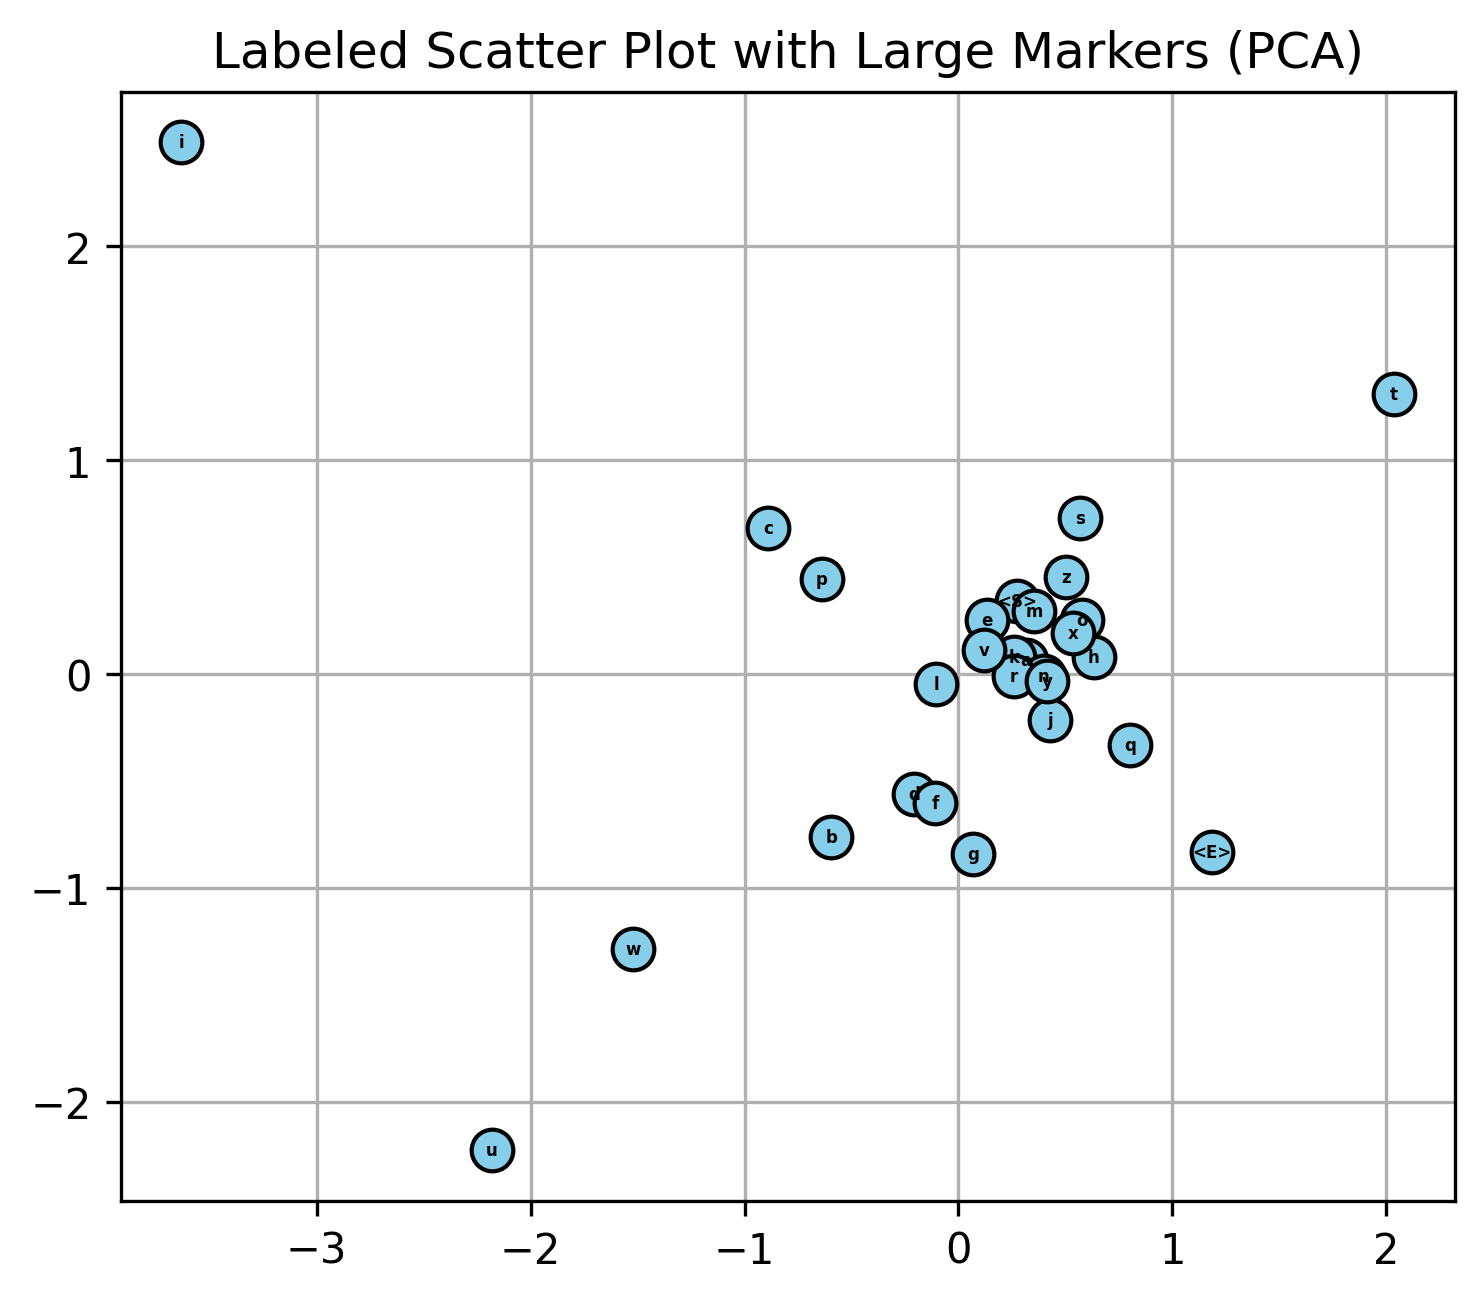
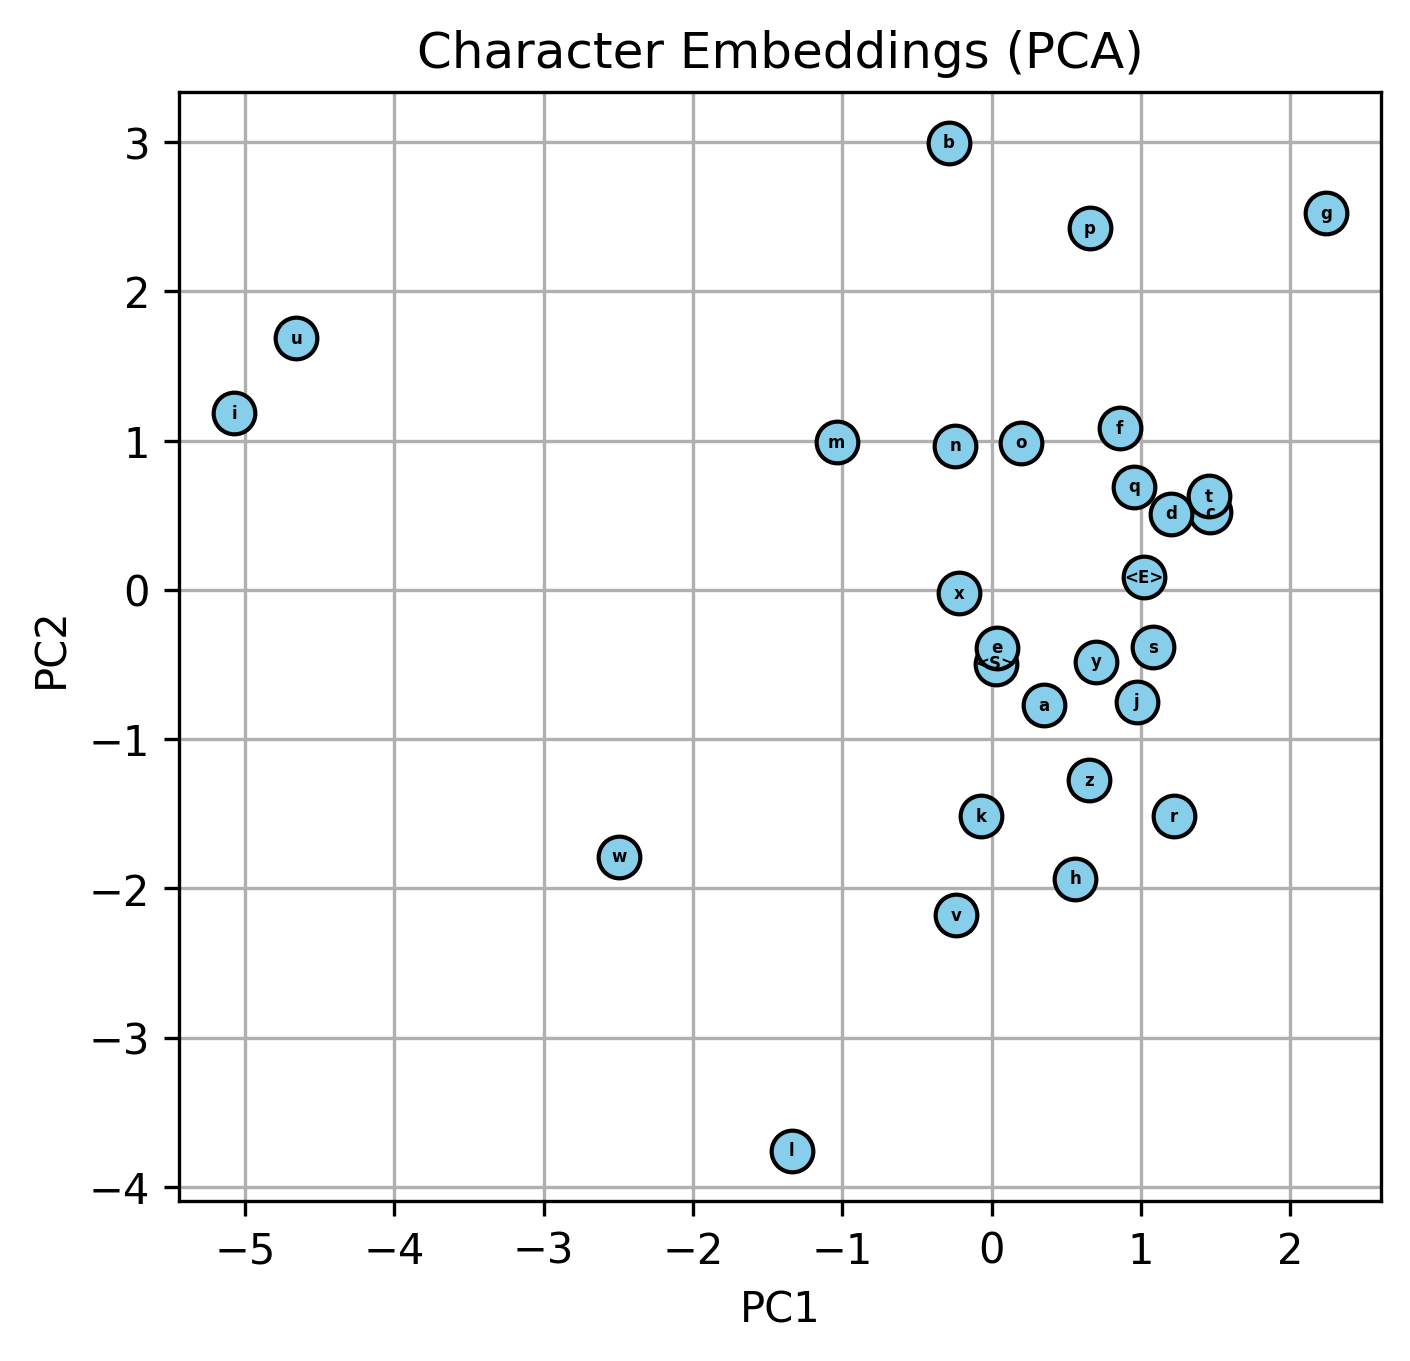
figures

diff --git a/3_makemore_v2/main.py b/3_makemore_v2/main.py
@@ -338,9 +338,9 @@ class NeuralModel:
             o1_activated = torch.tanh(o1)
 
             # Makes certain operations more efficient
-            # with torch.no_grad():
-            #     self.pre_activations.extend(o1.tolist())
-            #     self.activations.extend(o1_activated.tolist())
+            with torch.no_grad():
+                self.pre_activations.append(o1.detach().cpu())
+                self.activations.append(o1_activated.detach().cpu())
             
             logits =  (o1_activated @ self.W2) + self.b2
 
@@ -615,7 +615,9 @@ class NeuralModel:
             plt.text(xi, yi, label, ha='center', va='center', fontsize=4, fontweight='bold', zorder=3)
 
         # Styling
-        plt.title(f"Labeled Scatter Plot with Large Markers {'(PCA)' if did_pca else ''}")
+        plt.title(f"Character Embeddings {'(PCA)' if did_pca else ''}")
+        plt.xlabel("PC1")
+        plt.ylabel("PC2")
         plt.grid(True)
         plt.gca().set_aspect('equal', adjustable='box')
         plt.savefig("/app/3_makemore_v2/figures/embeddings.png", dpi=300, bbox_inches="tight")
@@ -630,75 +632,79 @@ class NeuralModel:
 model1 = NeuralModel()
 model2 = NeuralModel()
 # model.explore()
-model1.train(
-    context_size=3, 
-    embedding_size=10, 
-    hidden_size=500, 
-    epochs=20000,
-    regularization_strength=0.00001,
-    learning_rate=0.5,
-    batch_size=100,
-    pickle=False
-)
-model1.plot_embeddings_gif()
-# model.load()
-# model.eval("test")
-# model.predict(n=100)
-# model.plot_embeddings()
-epochs = 1
 # model1.train(
 #     context_size=3, 
 #     embedding_size=10, 
-#     hidden_size=300, 
-#     epochs=epochs,
+#     hidden_size=500, 
+#     epochs=20000,
 #     regularization_strength=0.00001,
 #     learning_rate=0.5,
-#     batch_size=500,
+#     batch_size=100,
 #     pickle=False
 # )
-# model2.train(
-#     context_size=3, 
-#     embedding_size=10, 
-#     hidden_size=300, 
-#     epochs=epochs,
-#     regularization_strength=0.00001,
-#     learning_rate=0.5,
-#     batch_size=500,
-#     pickle=False,
-#     weight_adjustments=[0.01, 0, 0.01, 0]
-# )
-# print(model1.pre_activations)
-# pa_tensor = torch.tensor(model1.pre_activations).view(1, -1).tolist()
-# a_tensor = torch.tensor(model1.activations).view(1, -1)
-# tail_perc = (a_tensor.abs() > 0.99).sum()/a_tensor.count_nonzero() * 100
-# a_tensor_list = torch.tensor(model1.activations).view(1, -1).tolist()
+# model1.plot_embeddings_gif()
+# model.load()
+# model.eval("test")
+# model.predict(n=100)
+# model1.plot_embeddings()
+epochs = 1
+model1.train(
+    context_size=3, 
+    embedding_size=10, 
+    hidden_size=300, 
+    epochs=epochs,
+    regularization_strength=0.00001,
+    learning_rate=0.5,
+    batch_size=500,
+    pickle=False
+)
+model2.train(
+    context_size=3, 
+    embedding_size=10, 
+    hidden_size=300, 
+    epochs=epochs,
+    regularization_strength=0.00001,
+    learning_rate=0.5,
+    batch_size=500,
+    pickle=False,
+    weight_adjustments=[0.01, 0, 0.01, 0]
+)
+plot_model = model2
+plot_model_file = "optimized_weight_pre_activations"
+pa_tensor = torch.cat(plot_model.pre_activations, dim=0).view(-1)
+a_tensor = torch.cat(plot_model.activations, dim=0).view(-1)
 
-# fig = plt.figure(figsize=(12, 8))
-# gs = gridspec.GridSpec(2, 2, height_ratios=[3, 1])  # 2 rows, 2 cols, bottom row smaller
+# calculate tail percentage
+tail_perc = (a_tensor.abs() > 0.99).sum() / a_tensor.count_nonzero() * 100
 
-# # Hist 1 (top-left)
-# ax1 = fig.add_subplot(gs[0, 0])
-# ax1.hist(pa_tensor, bins=35, color='skyblue', edgecolor='black', alpha=0.7)
-# ax1.set_title('Pre-Activations')
-# ax1.axvline(x=-2.65, color='red', linestyle='-', label='Tanh Tail Boundary')
-# ax1.axvline(x=2.65, color='red', linestyle='-')
-# ax1.plot([], [], ' ', label=f'~{tail_perc:.2f}% Tail Region')
-# ax1.legend()
-# ax1.grid(True, linestyle='--', alpha=0.5)
+fig = plt.figure(figsize=(12, 8))
+gs = gridspec.GridSpec(2, 2, height_ratios=[3, 1])  # 2 rows, 2 cols, bottom row smaller
 
-# # Hist 2 (top-right)
-# ax2 = fig.add_subplot(gs[0, 1])
-# ax2.hist(a_tensor_list, bins=35, color='lightgreen', edgecolor='black', alpha=0.7)
-# ax2.set_title('Activations')
-# ax2.grid(True, linestyle='--', alpha=0.5)
+# Hist 1 (top-left)
+ax1 = fig.add_subplot(gs[0, 0])
+ax1.hist(pa_tensor, bins=35, color='skyblue', edgecolor='black', alpha=0.7)
+ax1.set_title('Pre-Activations')
+ax1.axvline(x=-2.65, color='red', linestyle='-', label='Tanh Tail Boundary')
+ax1.axvline(x=2.65, color='red', linestyle='-')
+ax1.plot([], [], ' ', label=f'~{tail_perc:.2f}% Tail Region')
+ax1.legend()
+ax1.grid(True, linestyle='--', alpha=0.5)
+ax1.set_xlim(-25, 25)
 
-# ac_img = (torch.tensor(model1.activations).abs() > 0.99)
-# zero_cols = (ac_img.sum(dim=0) == 0).nonzero(as_tuple=True)[0]
+# Hist 2 (top-right)
+ax2 = fig.add_subplot(gs[0, 1])
+ax2.hist(a_tensor.view(-1).numpy(), bins=35, color='lightgreen', edgecolor='black', alpha=0.7)
+ax2.set_title('Activations')
+ax2.grid(True, linestyle='--', alpha=0.5)
+ax2.set_xlim(-1, 1)
 
-# ax3 = fig.add_subplot(gs[1, :])  # span both columns
-# ax3.imshow(ac_img.tolist(), cmap='gray', aspect='auto')
-# ax3.set_xlabel("Hidden Parameter Index")
-# ax3.set_ylabel("Example Number")
+ac_img = (a_tensor.view(-1, plot_model.activations[0].shape[-1]).abs() > 0.99)
+zero_cols = (ac_img.sum(dim=0) == 0).nonzero(as_tuple=True)[0]
+
+ax3 = fig.add_subplot(gs[1, :])  # span both columns
+ax3.imshow(ac_img.tolist(), cmap='gray', aspect='auto')
+ax3.set_xlabel("Hidden Parameter Index")
+ax3.set_ylabel("Example Number")
 
 # for col in zero_cols.tolist():
 #     rect = plt.Rectangle(
@@ -709,8 +715,8 @@ epochs = 1
 # Grid for better readability
 
 # Show plot
-# plt.tight_layout()
-# plt.savefig("/app/3_makemore_v2/figures/random_vs_adjusted_weight_pre_activations.png", dpi=300, bbox_inches="tight")
+plt.tight_layout()
+plt.savefig(f"/app/3_makemore_v2/figures/{plot_model_file}.png", dpi=300, bbox_inches="tight")
 
 # plot_loss_compare(model1, model2)
 
